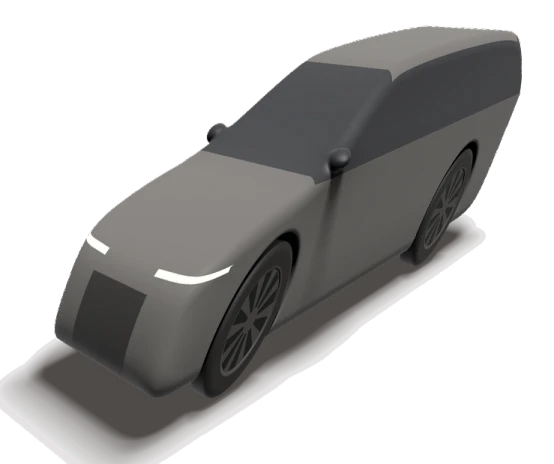
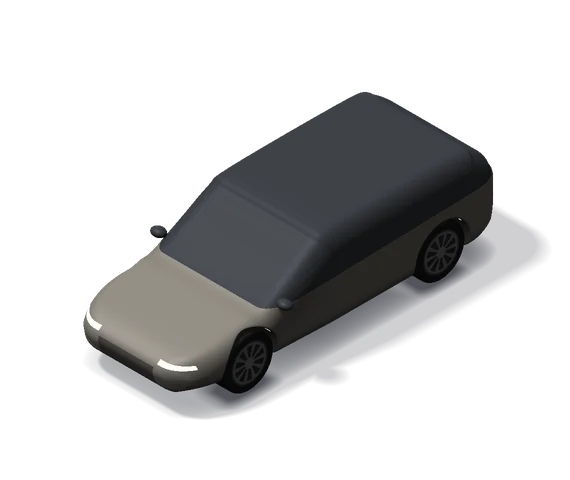
Cars as clay models in the house's view

diff --git a/custom_components/ev_household_planner/frontend/ev-planner-panel.js b/custom_components/ev_household_planner/frontend/ev-planner-panel.js
@@ -1397,9 +1397,10 @@ const ClayScene = (() => {
     van: { L: 4.71, Wd: 1.98, wheels: [0.88, 3.88], r: 0.385, cs: 7, rs: 10, re: 11, ce: 14, pillars: [0.3, 0.6, 0.86], pts: [[0.06, 0.4, 0.12], [0.01, 0.55, 0.14], [0, 0.75, 0.14], [0.03, 0.95, 0.12], [0.15, 1.07, 0.08], [0.35, 1.12, 0.05], [0.5, 1.14, 0.05], [0.6, 1.16, 0.07], [0.8, 1.42, 0.11], [1.05, 1.76, 0.15], [1.3, 1.9, 0.17], [4.45, 1.94, 0.17], [4.6, 1.88, 0.16], [4.67, 1.7, 0.14], [4.7, 1.45, 0.1], [4.71, 1.25, 0.09], [4.71, 1.0, 0.1], [4.71, 0.65, 0.11], [4.68, 0.48, 0.12], [4.6, 0.4, 0.12]] },
   };
 
-  // Clay renders of each kind of car, turned into the house's view (the wheels and the nose fitted to
-  // where they stand): where the picture goes, from the car's far rear corner on the ground, and its size.
-  const CAR_PICTURES = {"mini": {"x": -113.83, "y": -42.68, "w": 164.75, "h": 146.75}, "sedan": {"x": -119.36, "y": -42.03, "w": 170.25, "h": 150.25}, "suv": {"x": -124.37, "y": -46.79, "w": 181.0, "h": 151.0}, "estate": {"x": -128.47, "y": -41.43, "w": 184.75, "h": 154.75}, "van": {"x": -124.93, "y": -51.84, "w": 183.75, "h": 159.5}};
+  // Clay renders of each kind of car, made in the house's own view (true isometric, the same light).
+  // Each picture covers the same box, measured from the car's far rear corner on the ground.
+  const CAR_BOX = { x: -128, y: -58, w: 190, h: 160 };
+  const CAR_PICTURES = { mini: CAR_BOX, sedan: CAR_BOX, suv: CAR_BOX, estate: CAR_BOX, van: CAR_BOX };
   const carPicture = (kind) => {
     try {
       const url = new URL(`./cars/${kind}.webp`, import.meta.url);

diff --git a/CHANGELOG.md b/CHANGELOG.md
@@ -7,7 +7,7 @@ All notable changes to EV Planner. The version is the one in `custom_components/
 Beta: only those who show beta versions in the Marketplace get it.
 
 ### Changed
-- **The cars in the Home tab** are now seen from the same angle as the house: each render is turned and tilted so its wheels stand on the drive and its side runs along the parking space, instead of being seen from the side in front of a house seen from above. The light edge around the cars is gone.
+- **The cars in the Home tab** are new clay models, made in the same view and light as the house, so they stand on the drive instead of being pasted onto it. Each kind keeps its own colour, and the car brings its own soft shadow.
 
 ## [2.2.0b4] - 2026-11-09
 
